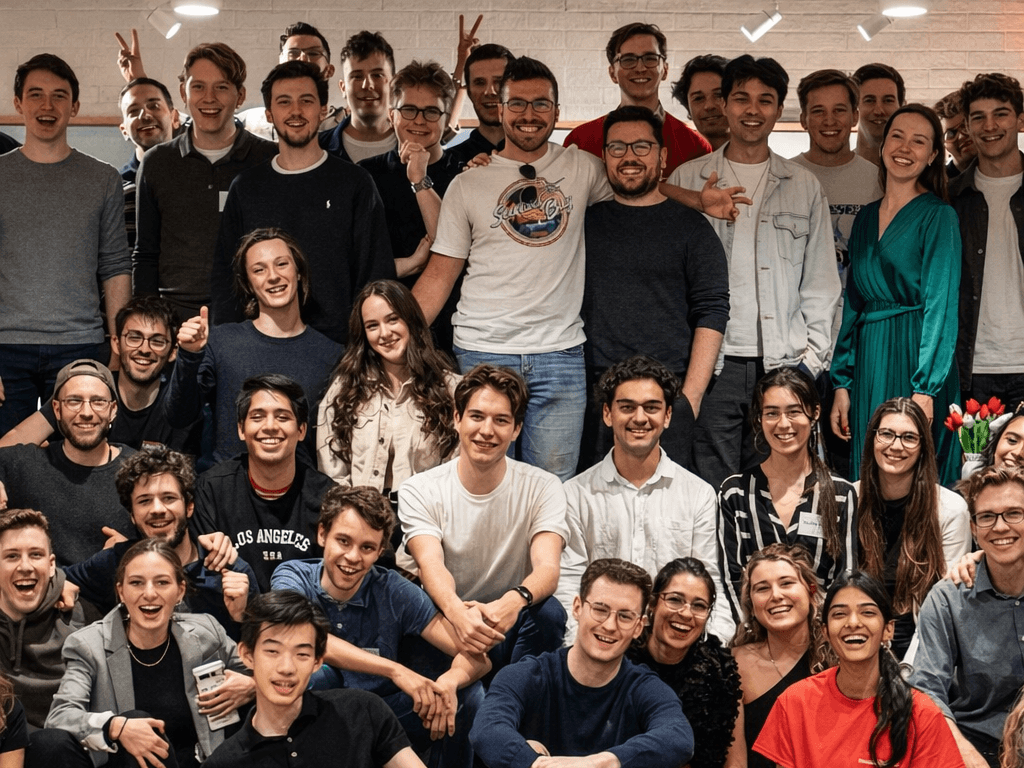
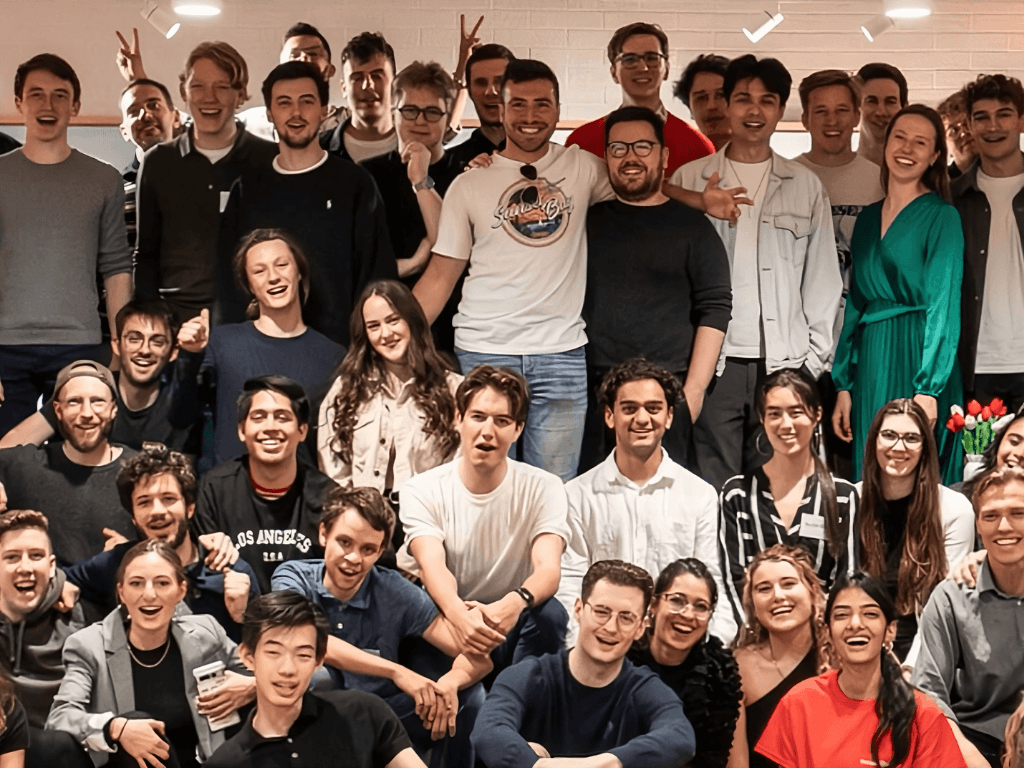
Update communities images with more high quality ones

diff --git a/layouts/partials/modal/communities/bodies/greektech.html b/layouts/partials/modal/communities/bodies/greektech.html
@@ -4,7 +4,7 @@
 </div>
 
 {{- partial "modal/project-framed-open.html" (dict "wrapperClass" "w-100 position-relative p-2") -}}
-	<img class="w-100 img-fluid rounded-3" src="{{ "communities/greektech_group.jpg" | relURL }}" alt="GreekTech team">
+	<img class="w-100 img-fluid rounded-3" src="{{ "communities/greektech_group.png" | relURL }}" alt="GreekTech team">
 	<p class="fs-09 text-muted text-wrap-normal px-1 mt-3 mb-2">The GreekTech and Founderhood teams, along with some friends, gathered for a meetup in Athens.</p>
 {{- partial "modal/project-framed-close.html" . -}}
 
